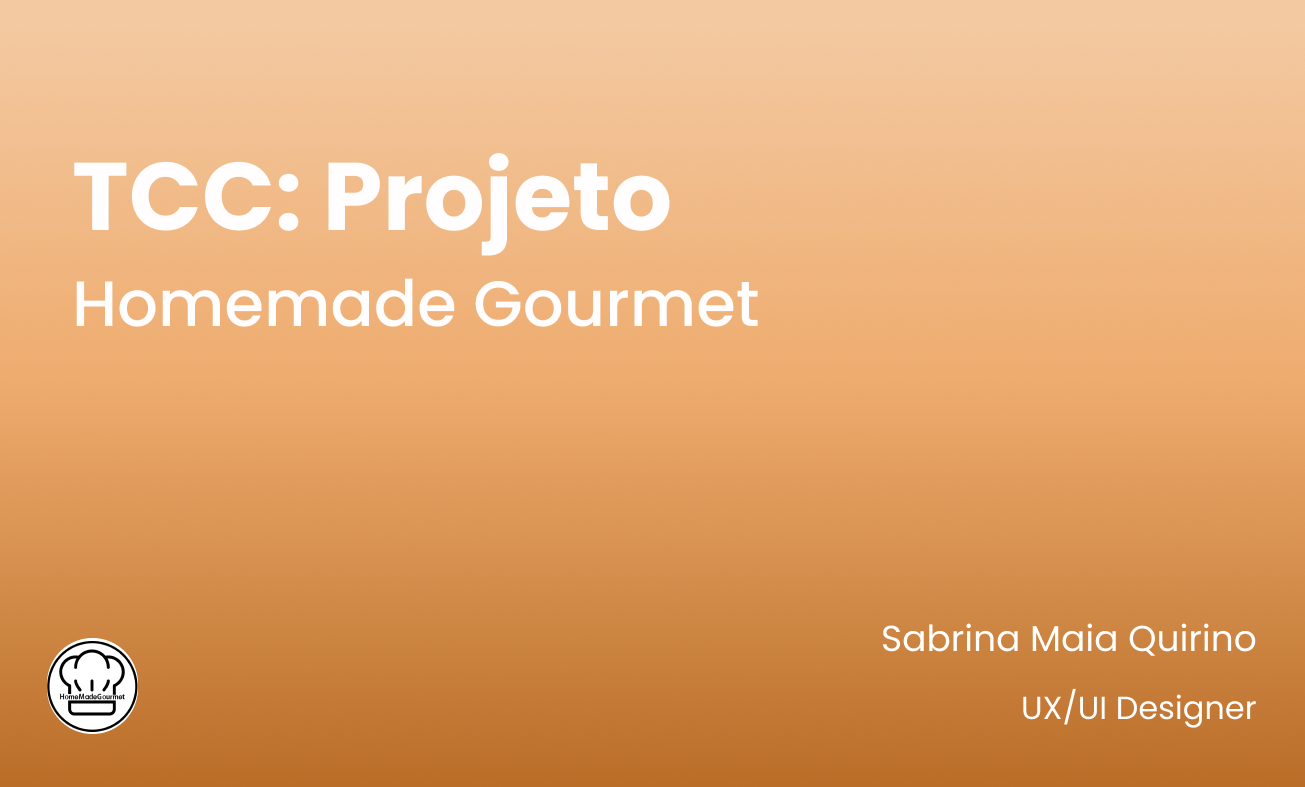
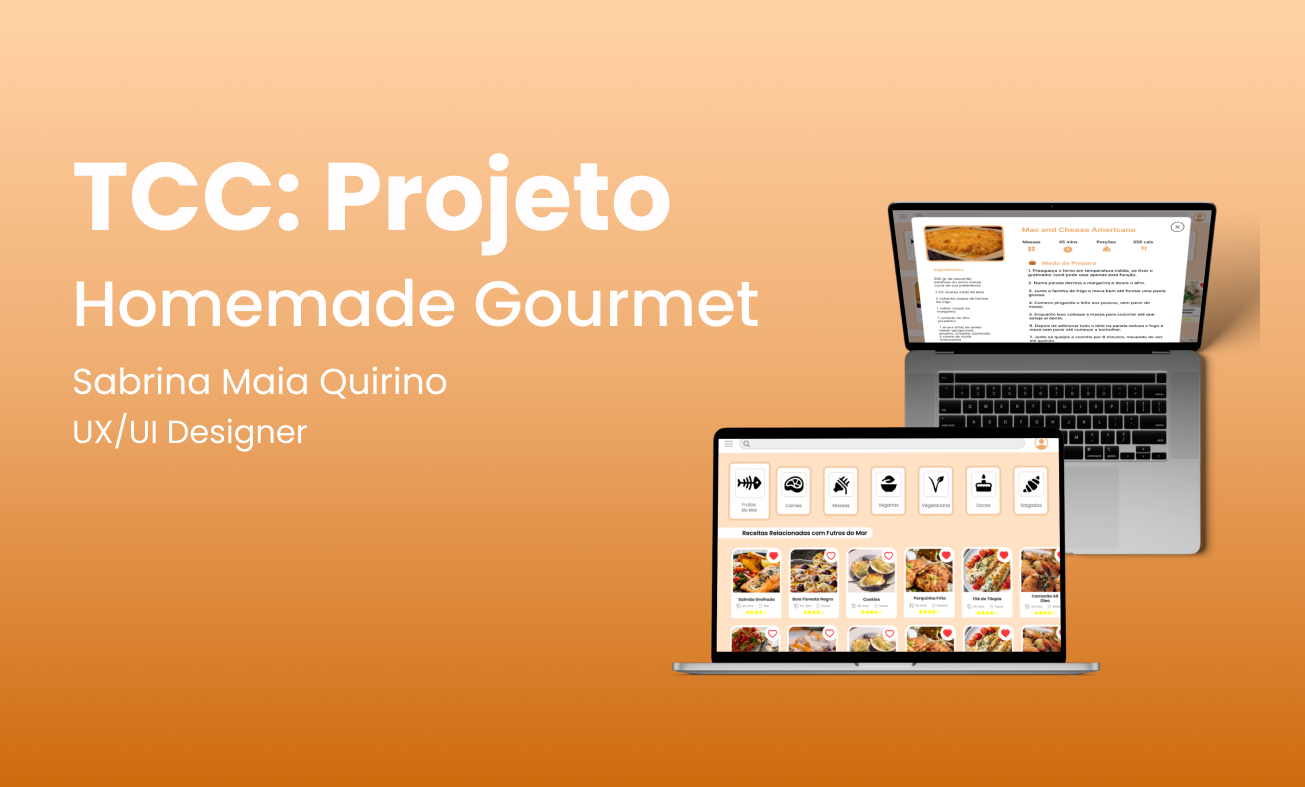
subindo

diff --git a/projetos.html b/projetos.html
@@ -25,7 +25,7 @@
     
                 <figure>
                 <a class="apresentacao__conteudo__projetos__link" href="./MindClean/index.html">
-                    <img src="./MindClean/mindcleancapa.png" class="apresentacao__conteudo__imagem">
+                    <img src="./MindClean/Frame 1.png" class="apresentacao__conteudo__imagem">
                     <figcaption class="apresentacao__conteudo__subtitulo">Projeto: Mind Clean</figcaption>
                 </a>
                 </figure>
@@ -33,7 +33,7 @@
 
                 <figure>
                     <a class="apresentacao__conteudo__projetos__link" href="./Homemade Gourmet/index.html">
-                    <img src="./Homemade Gourmet/homemadecapa.png" class="apresentacao__conteudo__imagem">
+                    <img src="./Homemade Gourmet/capa.png" class="apresentacao__conteudo__imagem">
                     <figcaption class="apresentacao__conteudo__subtitulo">Projeto: Homemade Gourmet</figcaption>
                     </a>
                 </figure>
@@ -41,7 +41,7 @@
     
                 <figure>
                     <a class="apresentacao__conteudo__projetos__link" href="./detect a tech/index.html">
-                <img src="./detect a tech/projetoDetectaTech.png" class="apresentacao__conteudo__imagem">
+                <img src="./detect a tech/projeto detect a tech.png" class="apresentacao__conteudo__imagem">
                 <figcaption class="apresentacao__conteudo__subtitulo">Projeto: Detect a Tech</figcaption>
                 </a>
                 </figure>

diff --git a/Deep Focus/index.html b/Deep Focus/index.html
@@ -114,7 +114,7 @@
                     <h3 class="apresentacao__conteudo__h3">Study Countdown</h3>
                     <p class="apresentacao__conteudo__paragrafo">Enquanto o timer não for zerado, o dispositivo terá sua tela bloqueada, até a conclusão do estudo. Ele/a só poderá sair dessa tela em casos de emergência.</p>
                 </div>
-                <img class="apresentacao__conteudo__projeto__telas__mobile__imagem" src="../Deep Focus/timer.png" alt="Countdown do tempo estudado Deep Focus">
+                <img class="apresentacao__conteudo__projeto__telas__mobile__imagem" src="./Deep Focus/timer.png" alt="Countdown do tempo estudado Deep Focus">
                 </section>
 
                 <section class="apresentacao__conteudo__projeto__telas">
